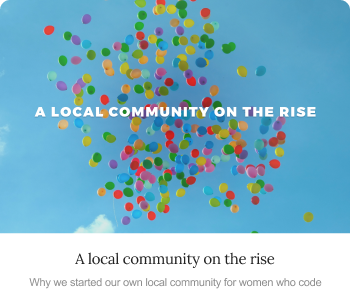
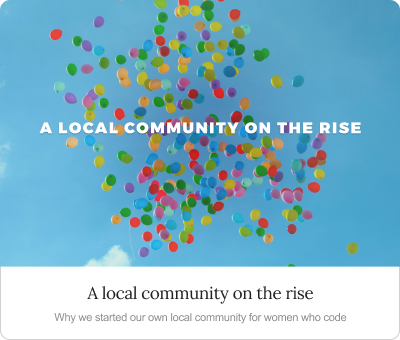
updated article sizes

diff --git a/README.md b/README.md
@@ -38,10 +38,10 @@ Nowadays, I love to spend most of my time at women.code(be), something I am trul
 ### 🖋 Some of the stuff I blog about:
 
 <a href="http://bit.ly/remote-flexible-work">
-  <img src="https://raw.githubusercontent.com/Mangamaui/Mangamaui/master/assets/article-card1.png" alt="How flexible and remote work improved my life - A detailed view on a personal experience with remote and flexible work by Claudia" width="350" />
+  <img src="https://raw.githubusercontent.com/Mangamaui/Mangamaui/master/assets/article-card1.png" alt="How flexible and remote work improved my life - A detailed view on a personal experience with remote and flexible work by Claudia" width="400" />
 </a>
-<a href="http://bit.ly/local-community-rising" style="margin-left: 10px">
-  <img src="https://raw.githubusercontent.com/Mangamaui/Mangamaui/master/assets/article-card2.png" alt="A local community on the rise - Why we started our own local community for women who code by Claudia" width="350" />
+<a href="http://bit.ly/local-community-rising">
+  <img src="https://raw.githubusercontent.com/Mangamaui/Mangamaui/master/assets/article-card2.png" alt="A local community on the rise - Why we started our own local community for women who code by Claudia" width="400" />
 </a>
 
 ### 💬 Where to find me:
